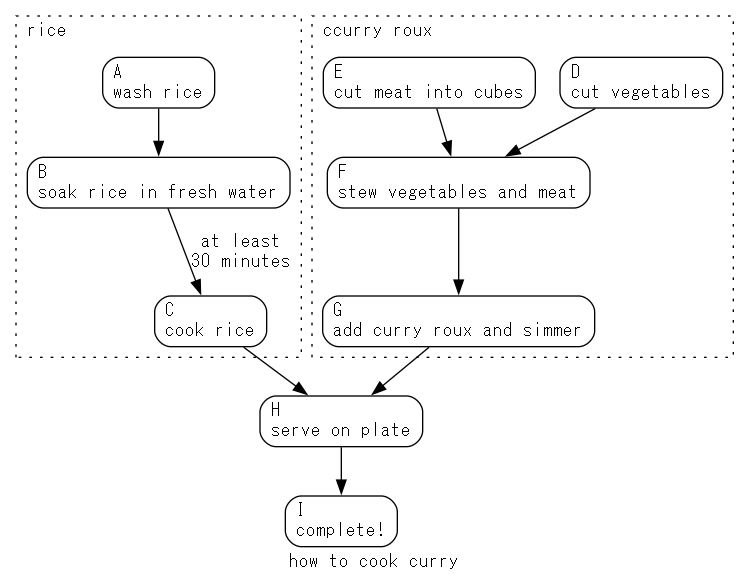
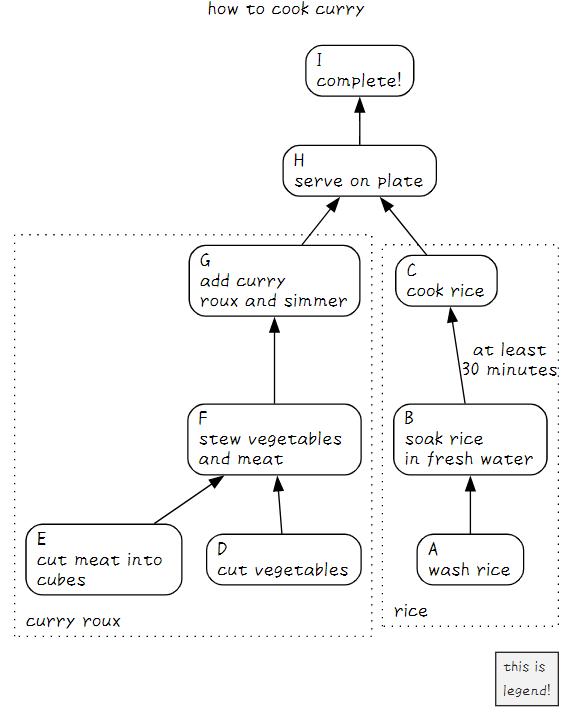
Enable: legend block

diff --git a/README.md b/README.md
@@ -4177,7 +4177,7 @@ C task-C [A,B]
 Input:
 
 ```powershell
-cat input.txt
+PS > cat input.txt
 # how to cook curry
 
 -- rice --
@@ -4198,12 +4198,20 @@ B --> C : at least\n30 minutes
 
 //-- dot --
 {rank=same; A, E, D};
+
+legend right
+this is
+legend!
+end legend
 ```
 
 Output:
 
+```powershell
+PS >  cat input.txt | logi2dot -Kinsoku 10 -BottomToTopDirection > a.dot ; dot2gviz a.dot png | ii
+```
+
 ```dot
-cat input.txt | logi2dot > a.dot; dot2gviz a.dot png | ii
 strict digraph logictree {
 
  graph [
@@ -4211,7 +4219,8 @@ strict digraph logictree {
   compound = true;
   fontname = "MS Gothic";
   label = "how to cook curry";
-  rankdir = "TB";
+  labelloc = "t";
+  rankdir = "BT";
   newrank = true;
  ];
 
@@ -4226,6 +4235,11 @@ strict digraph logictree {
   dir = forward;
  ];
 
+ // legend subgraph
+ subgraph cluster_legend {
+   //peripheries=0;
+
+
  // Node settings
 
  subgraph cluster_G1 {
@@ -4236,9 +4250,9 @@ strict digraph logictree {
   labelloc = "t";
   labeljust = "l";
   //-- rice --
-  "A" [label="A\lwash rice", shape="rectangle" ];
-  "B" [label="B\lsoak rice in fresh water", shape="rectangle" ];
-  "C" [label="C\lcook rice", shape="rectangle" ];
+  "A" [label="A\lwash rice\l", shape="rectangle" ];
+  "B" [label="B\lsoak rice \lin fresh water\l", shape="rectangle" ];
+  "C" [label="C\lcook rice\l", shape="rectangle" ];
  };
 
  subgraph cluster_G2 {
@@ -4249,14 +4263,14 @@ strict digraph logictree {
   labelloc = "t";
   labeljust = "l";
   //-- curry roux --
-  "D" [label="D\lcut vegetables", shape="rectangle" ];
-  "E" [label="E\lcut meat into cubes", shape="rectangle" ];
-  "F" [label="F\lstew vegetables and meat", shape="rectangle" ];
-  "G" [label="G\ladd curry roux and simmer", shape="rectangle" ];
+  "D" [label="D\lcut vegetables\l", shape="rectangle" ];
+  "E" [label="E\lcut meat into \lcubes\l", shape="rectangle" ];
+  "F" [label="F\lstew vegetables \land meat\l", shape="rectangle" ];
+  "G" [label="G\ladd curry \lroux and simmer\l", shape="rectangle" ];
  };
 
- "H" [label="H\lserve on plate", shape="rectangle" ];
- "I" [label="I\lcomplete!", shape="rectangle" ];
+ "H" [label="H\lserve on plate\l", shape="rectangle" ];
+ "I" [label="I\lcomplete!\l", shape="rectangle" ];
 
 
  // Edge settings
@@ -4276,6 +4290,26 @@ strict digraph logictree {
  // Dot settings
  //-- dot --
  {rank=same; A, E, D};
+
+
+ // legend block
+ graph [
+   labelloc="t";
+   labeljust="r";
+   color="white";
+   label=<
+   <TABLE
+       BORDER="1"
+       CELLBORDER="0"
+       COLOR="gray15"
+       BGCOLOR="gray95"
+   >
+   <TR><TD ALIGN="LEFT"><FONT COLOR="gray15" POINT-SIZE="11">this is</FONT></TD></TR>
+   <TR><TD ALIGN="LEFT"><FONT COLOR="gray15" POINT-SIZE="11">legend!</FONT></TD></TR>
+   </TABLE>>;
+ ];
+
+};
 
 }
 ```
@@ -4306,8 +4340,11 @@ ActA <-> ActB: conflict！
 
 Output2:
 
-```dot
+```powershell
 cat input.txt | logi2dot -BottomToTopDirection -Kinsoku 10 > a.dot; dot2gviz a.dot png | ii
+```
+
+```dot
 strict digraph logictree {
 
  graph [

diff --git a/CHANGELOG.md b/CHANGELOG.md
@@ -14,7 +14,8 @@ and this project adheres to [Semantic Versioning](https://semver.org/spec/v2.0.0
 
 ### Added
 
-- None
+- Added [logi2dot] enable legend block.
+- Added [mdgrep] grep changelog example.
 
 
 ## [3.7.0] - 2023-04-07
